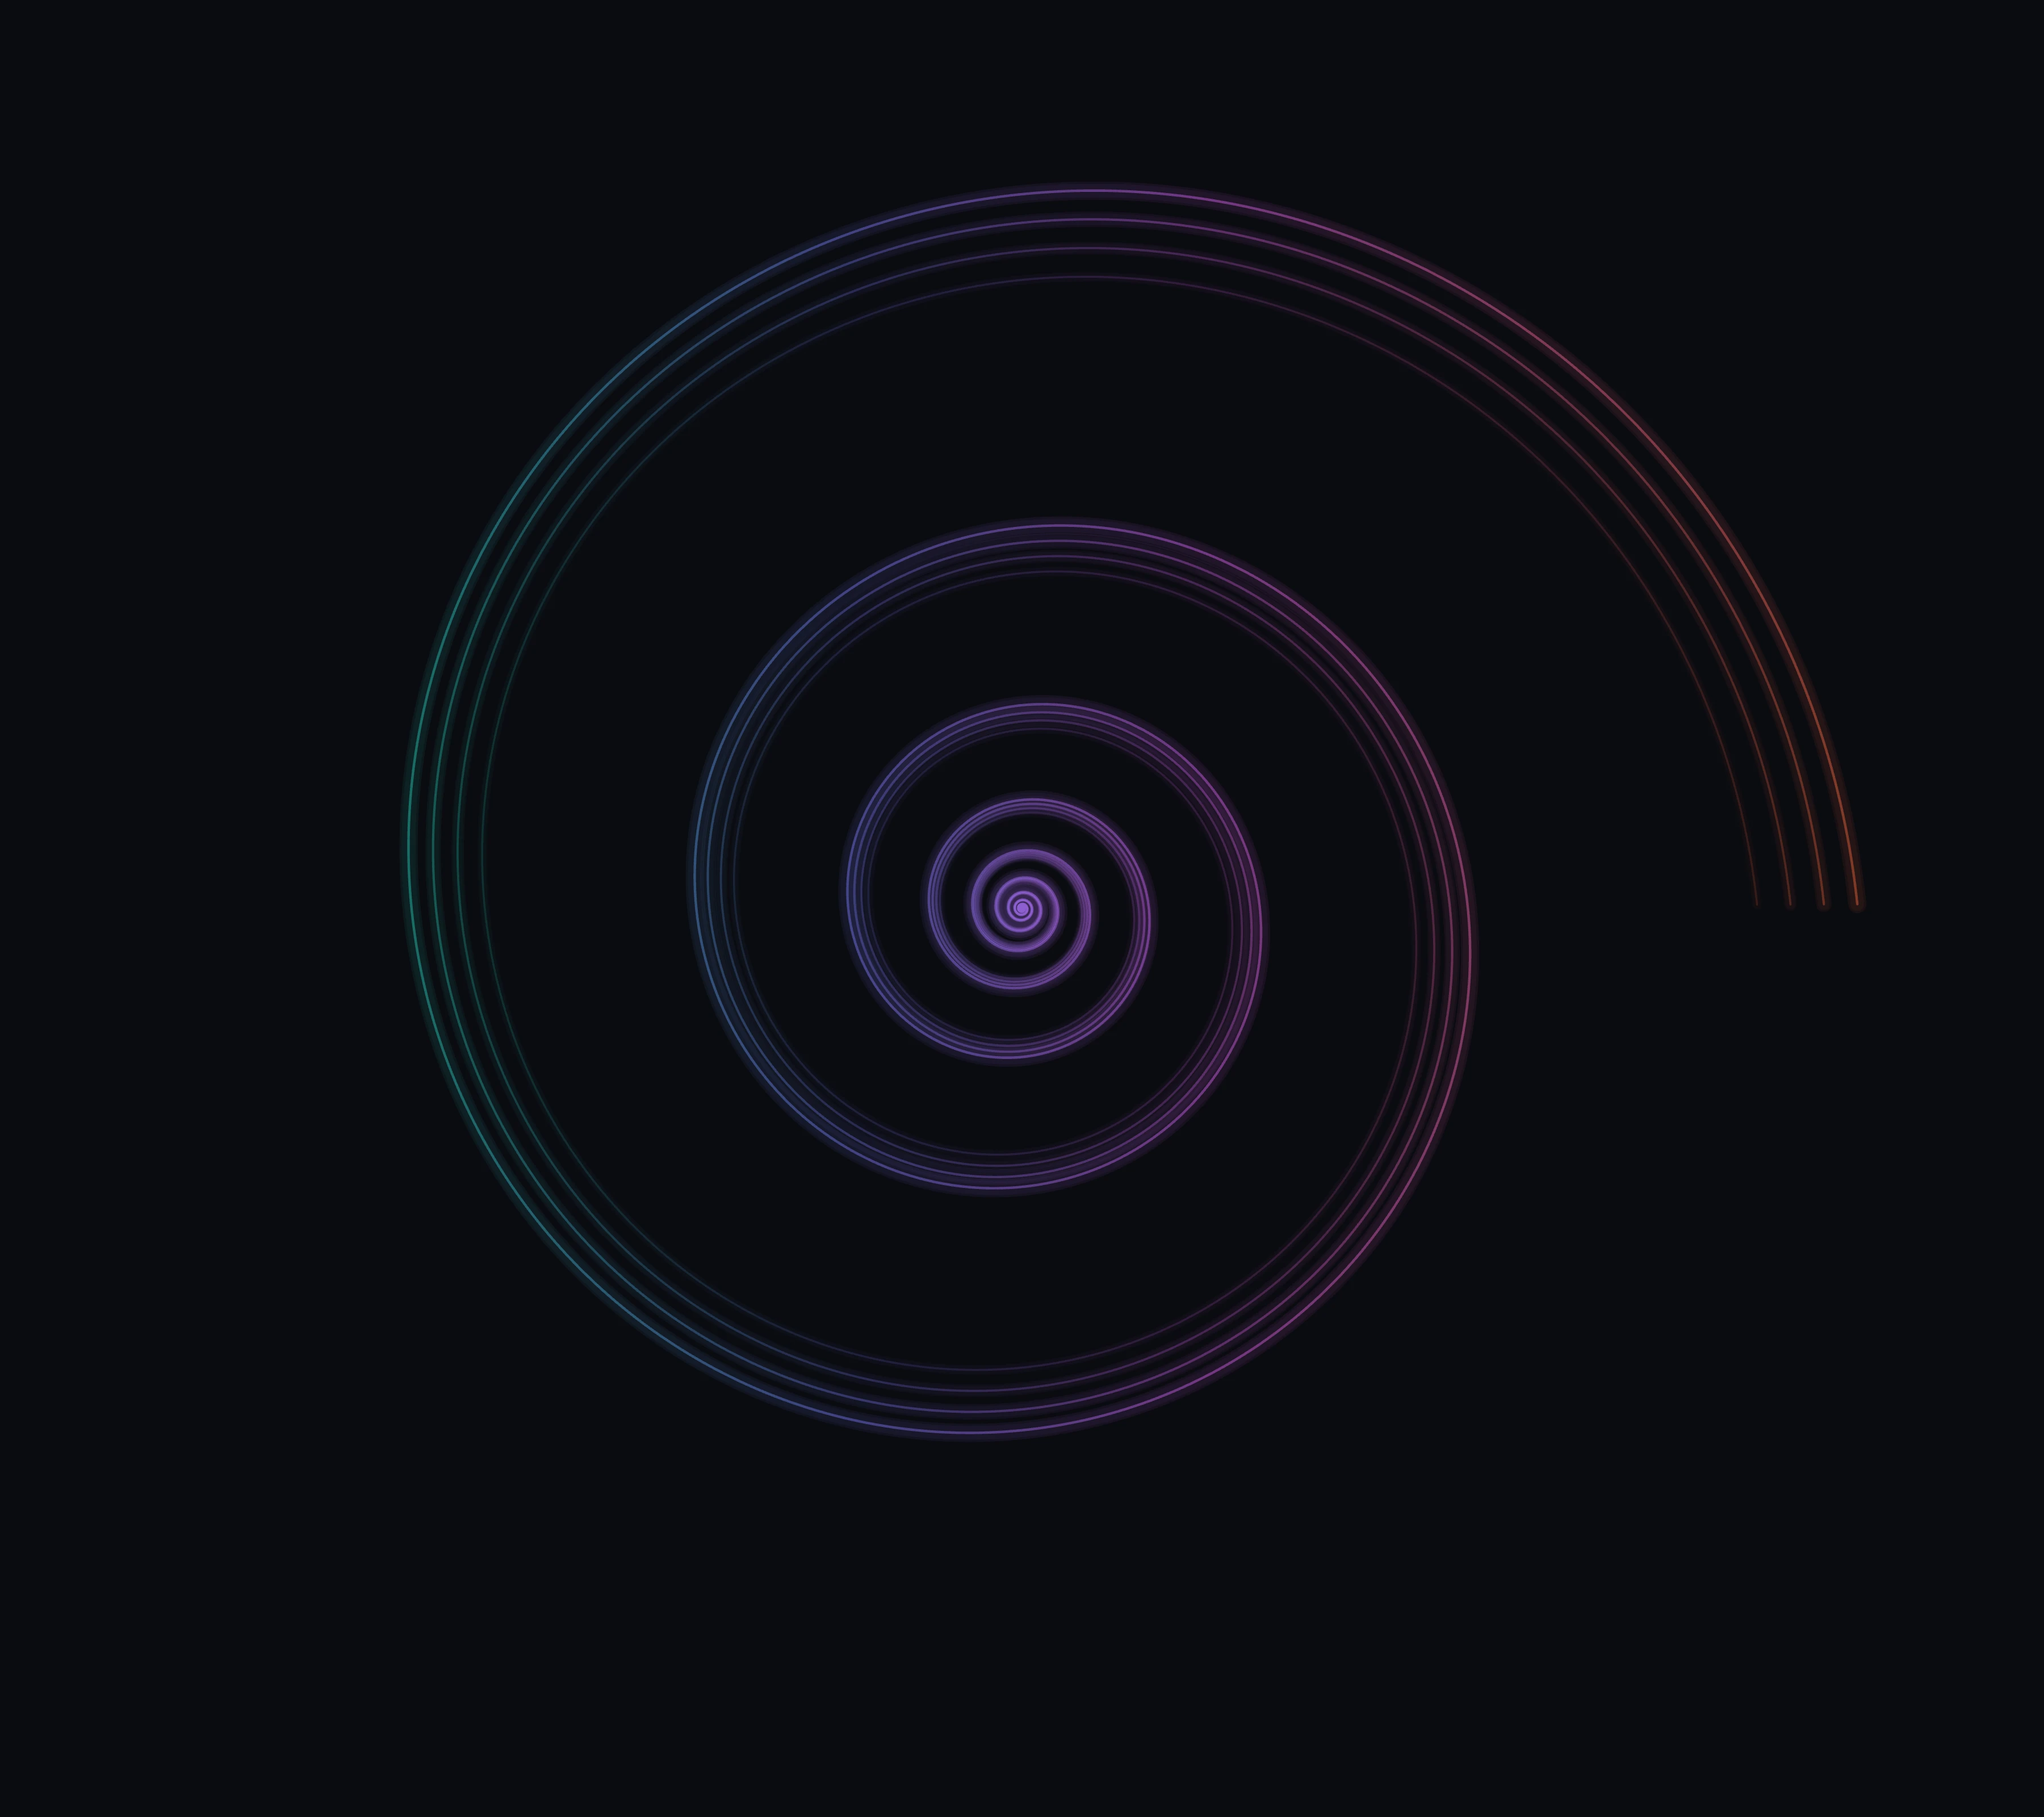
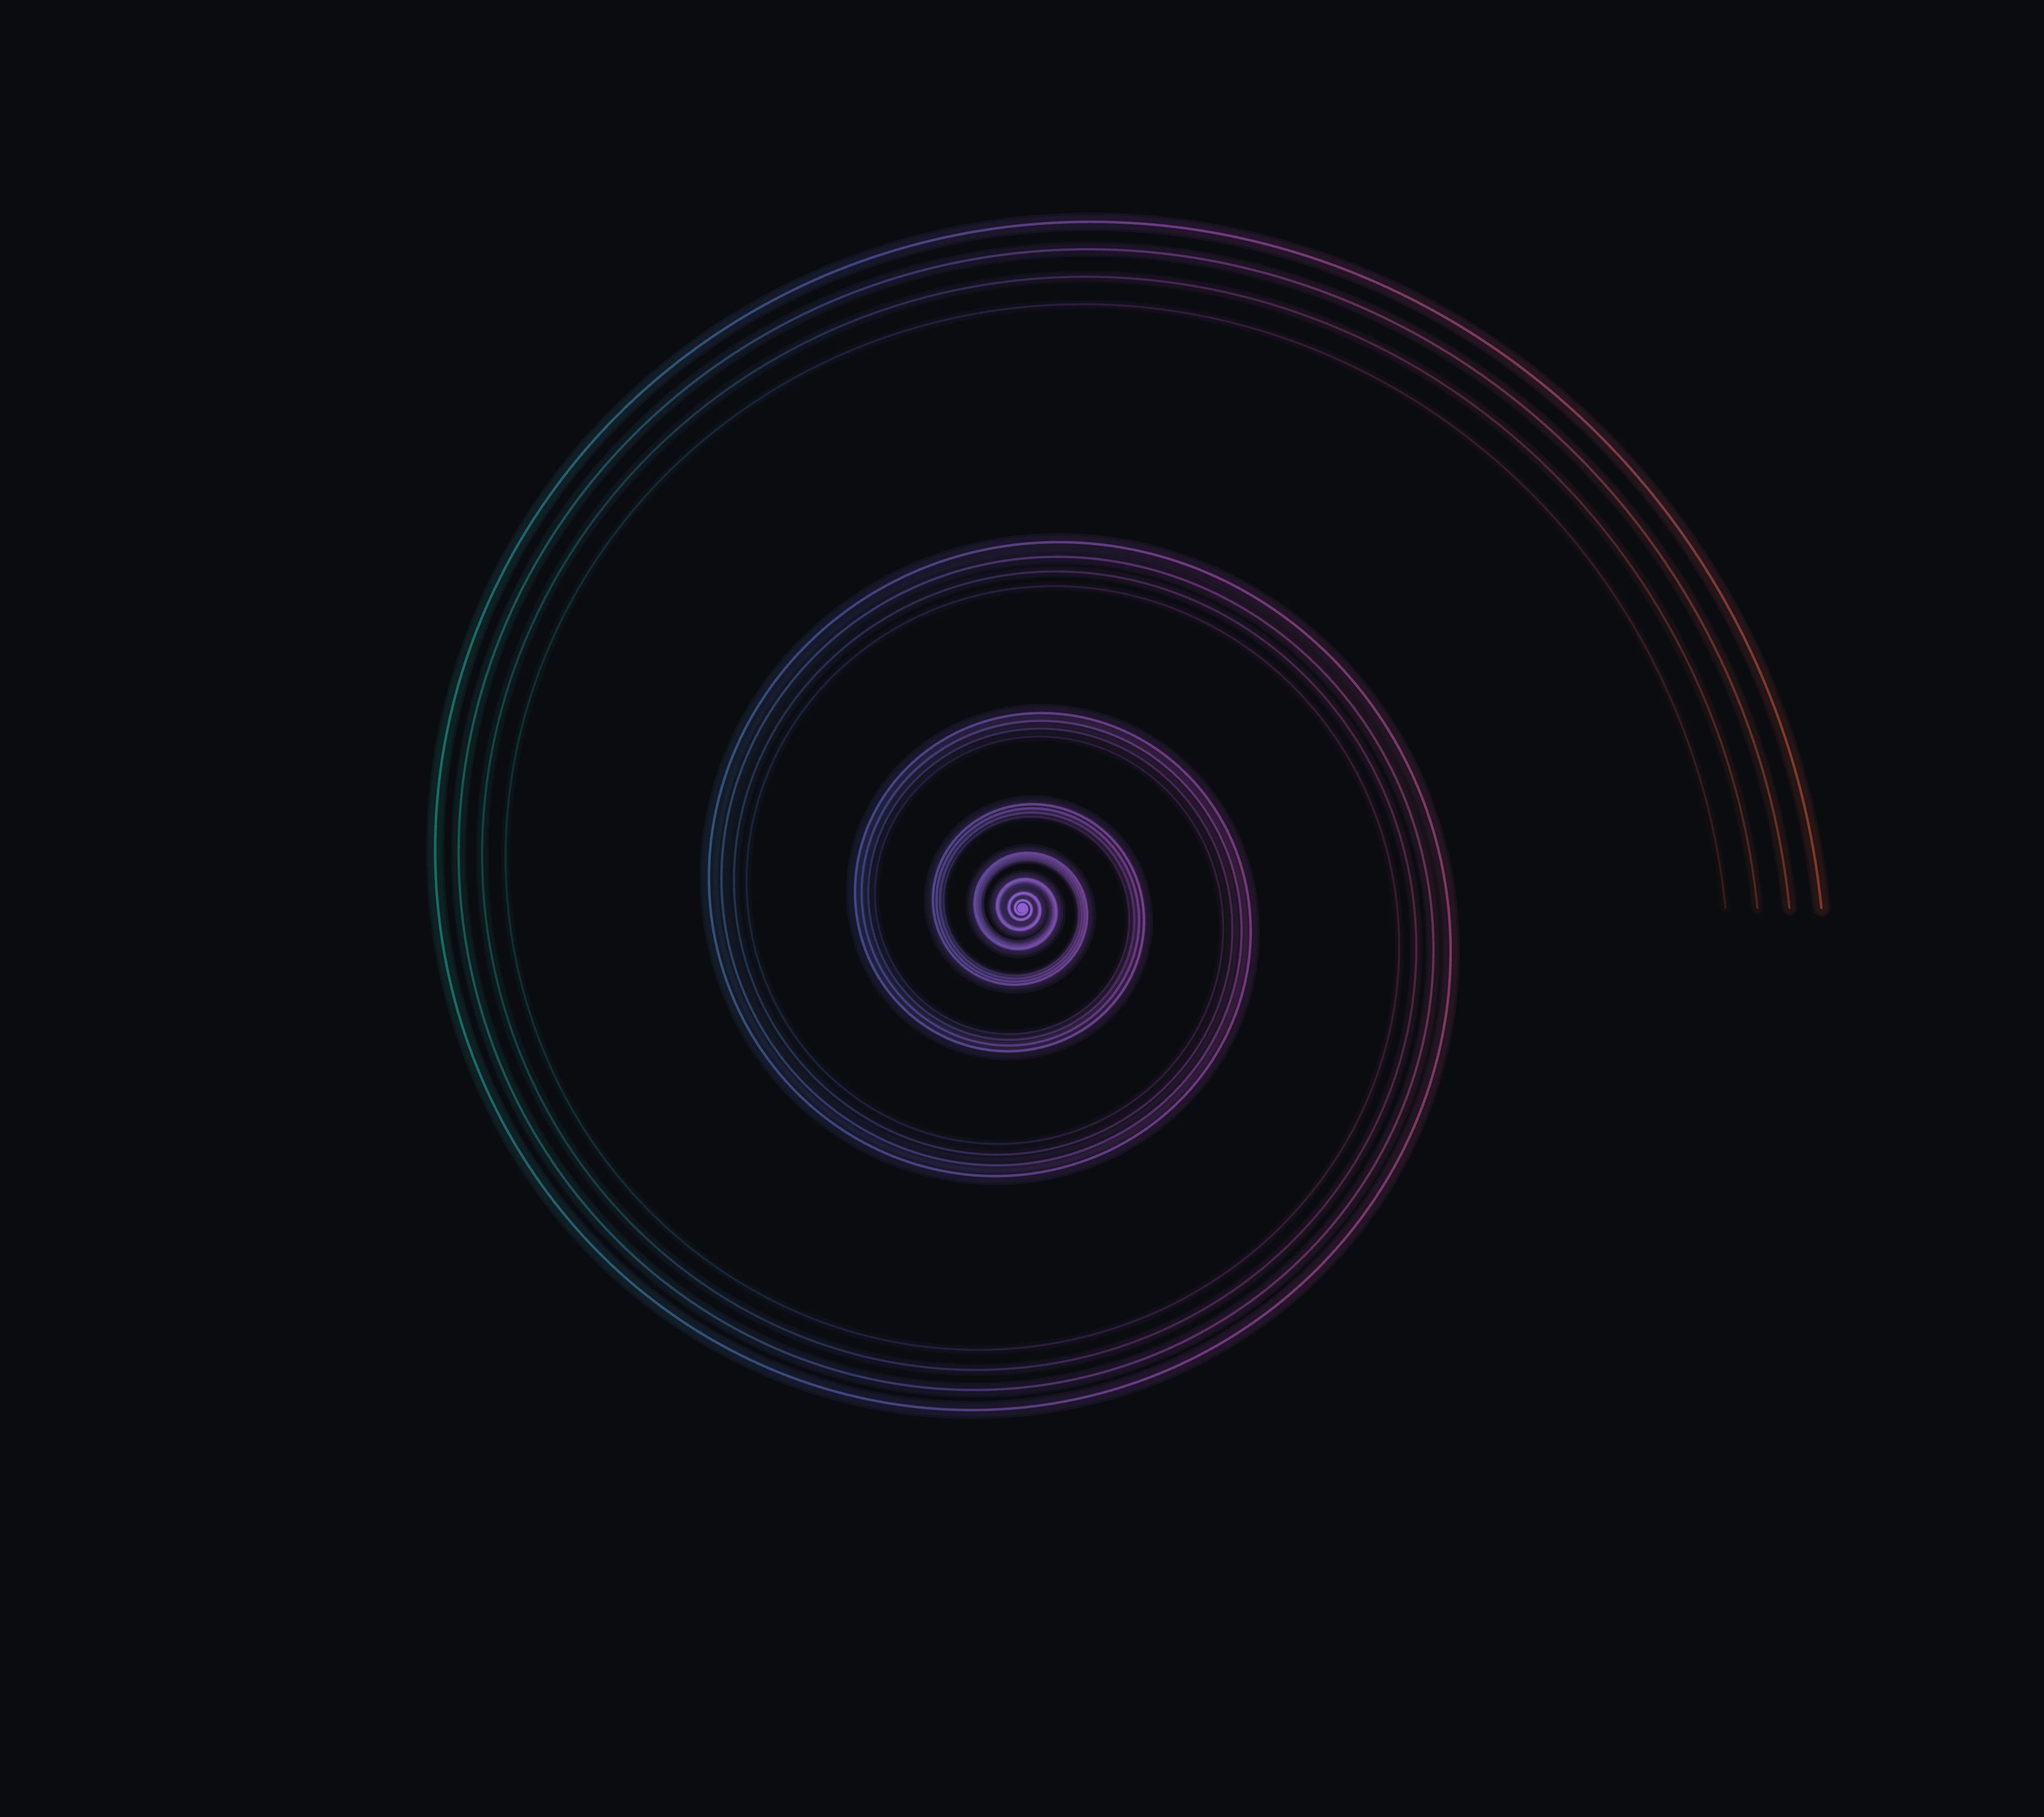
chore(assets): increase mobile spiral bleed to ~1/sqrt(2) for full rotation (fit=0.44)

diff --git a/scripts/generate-mobile-spiral.js b/scripts/generate-mobile-spiral.js
@@ -41,8 +41,8 @@ function svgMarkup(width, height) {
   const cy = height / 2;
   const totalTheta = Math.PI * 2 * SPIRAL.turns;
   const baseRadius = SPIRAL.a * Math.exp(SPIRAL.b * totalTheta);
-  // Increase bleed: ~25% more margin than original (0.62 * 0.75 ≈ 0.46)
-  const fit = 0.46;
+  // Increase bleed for full 360° rotation: ~1/√2 of original (0.62 / 1.41 ≈ 0.44)
+  const fit = 0.44;
   const pixelScale = (Math.min(width, height) * fit) / baseRadius;
   const gradientStops = COLOR_STOPS.map((s) => `<stop offset="${s.stop * 100}%" stop-color="${s.color}" />`).join('');
 
